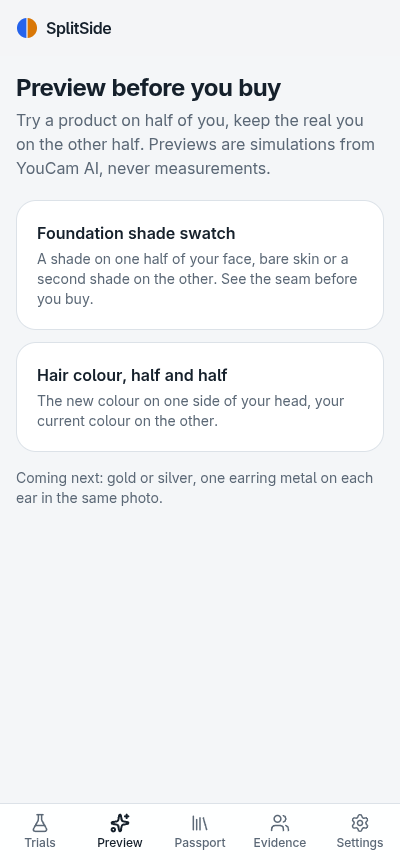
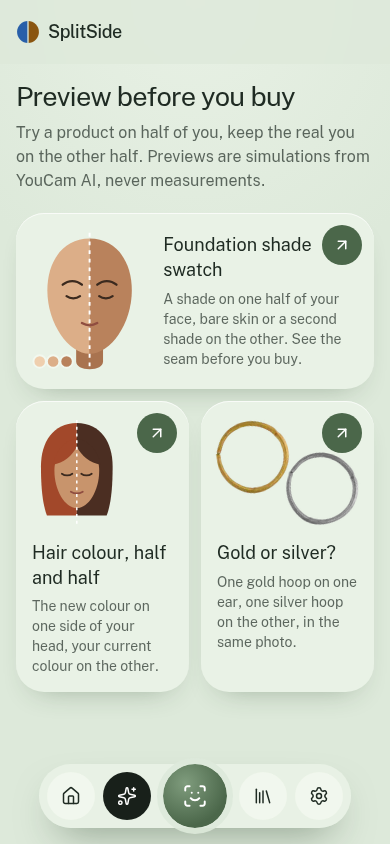
Rewrite README with GIFs and refreshed screenshots, round scanner ticks

diff --git a/components/ScannerFrame.tsx b/components/ScannerFrame.tsx
@@ -18,7 +18,7 @@ export function ScannerFrame({ children, status, live = false }: { children: Rea
           const y = 205 - ry * Math.cos(t);
           const nx = Math.sin(t);
           const ny = -Math.cos(t);
-          return <line key={i} x1={x} y1={y} x2={x - nx * 7} y2={y - ny * 7} stroke="var(--color-forest)" strokeOpacity={live ? 0.8 : 0.45} strokeWidth="1.4" />;
+          return <line key={i} x1={x.toFixed(2)} y1={y.toFixed(2)} x2={(x - nx * 7).toFixed(2)} y2={(y - ny * 7).toFixed(2)} stroke="var(--color-forest)" strokeOpacity={live ? 0.8 : 0.45} strokeWidth="1.4" />;
         })}
       </svg>
       <div className="absolute inset-[14px] overflow-hidden rounded-[999px] bg-forest/80">{children}</div>

diff --git a/README.md b/README.md
@@ -1,159 +1,235 @@
-# SplitSide: your face is the control group
+<div align="center">
+
+# SplitSide
+
+### Your face is the control group.
 
 **Measure what works. Preview before you buy. Always half-and-half, always honest.**
 
-SplitSide is an at-home **split-face skincare trial** app. You put a new product on one cheek only, and the other cheek stays untouched as the control. **YouCam AI Skin Analysis** then measures both halves in the same photo. Light, sleep, stress, weather and hormones hit both sides equally, so they cancel out. What's left is the product's real effect.
+An at-home split-face skincare trial app, built on the YouCam API.
+Skin AI track, [YouCam API Skin AI & eCommerce VTO Hackathon](https://youcam-api-skin-ai-ecommerce.devpost.com/).
 
-Built for the **YouCam API Skin AI & eCommerce VTO Hackathon** (Perfect Corp, Devpost), Skin AI track.
+![Next.js 16](https://img.shields.io/badge/Next.js-16-1f2b23) ![TypeScript strict](https://img.shields.io/badge/TypeScript-strict-285fa9) ![YouCam APIs: 9](https://img.shields.io/badge/YouCam%20APIs-9-4b674a) ![Tests: 99 passing](https://img.shields.io/badge/tests-99%20passing-356a33) ![Installable PWA](https://img.shields.io/badge/PWA-installable-4b674a) ![License: MIT](https://img.shields.io/badge/license-MIT-66766a)
 
-| Landing | Your trials | Trial dashboard | Irritation stop | Preview mode |
-|---|---|---|---|---|
-| ![Landing](docs/screenshots/landing.png) | ![Trials](docs/screenshots/trials.png) | ![Dashboard](docs/screenshots/dashboard.png) | ![Stop verdict](docs/screenshots/stop-verdict.png) | ![Preview](docs/screenshots/preview.png) |
+<img src="docs/gifs/landing.gif" alt="Scrolling the SplitSide landing page: a face in the scanner oval gets its mesh drawn, then splits into a blue treated half and an amber control half" width="280" />
 
-Demo video: _link added at submission_
+**Demo video:** _link added at submission_ · **Live app:** _link added after deploy_
 
-## Why it exists
+</div>
 
-People buy skincare without knowing whether it works. Before-and-after selfies can't tell them, because a bad night or a cloudy window changes a skin score more than most products do. Dermatology solved this long ago with the split-face trial, where one side of the face is the control. SplitSide brings that method to shoppers. It answers "is this product working on my skin?" with **Working / No real difference / Stop**, before the store's return window closes.
+---
 
-## What it does
+## The problem
 
-- **Guided capture.** Front camera with live MediaPipe face landmarks. Checks for centring, head pose, size and eyes/mouth, plus a ghost outline of your first scan. Auto-captures after 0.6 s of passing every check.
-- **Light Balance Gate.** Compares the median brightness of the two cheek areas before anything is uploaded, and blocks side light, darkness, glare and blur.
-- **Randomised side.** A cryptographic coin flip decides which cheek gets the product, so you can't pick your "better" side.
-- **Split engine.** Fits the facial midline and builds two mirror-image cheek areas of equal size, with a buffer band down the middle. It then measures how much of each area every YouCam concern mask covers.
-- **Statistics, not vibes.** Three baseline scans give your personal noise range (SDC). The difference-in-differences of the log treated/control ratio produces the verdict, with confidence, early stopping and a 7-day extension if the return window allows.
-- **Irritation sentinel.** Redness or breakouts rising on the treated side only, or reported burning or stinging, mean an immediate STOP with safety advice. The threshold is lower for Fitzpatrick IV–VI with harsh actives.
-- **Trial assistant.** An LLM agent with tools over your trial numbers. It explains the verdict, drafts the return request and suggests a gentler next trial. It never sees photos and never invents numbers. A deterministic manager runs the trial even without the LLM.
-- **Claim Check.** YouCam AI Skin Simulation shows what the box's promise would look like on your own baseline photo, beside the measured result. It is clearly labelled as a simulation.
-- **Preview mode ("split everything").** Before you buy, the product goes on half of you and the real you stays on the other half, in one photo, always labelled *Preview: simulated*:
-  - **Half-face foundation swatch.** YouCam makeup try-on renders one or two shades. A seam score (CIEDE2000 between your bare cheeks and the same cheeks with the shade) says "Blends well", "Slightly light" or "Too dark", so you buy one shade instead of two. The shortlist comes from your skin tone measured by YouCam skin tone analysis.
-  - **Half-head hair colour.** A new colour on one side of your head, your current colour on the other, with three suggestions that explain why they suit your undertone.
-  - **Gold or silver?** One gold hoop on one ear and one silver hoop on the other, in the same photo, with an undertone hint. The hoop photos are a CC0 museum object (The Met); the silver one is the same hoop recoloured so only the metal differs.
-- **SplitHair (beta).** An anti-frizz product on one side of the parting. Each check-in rates frizz per side with YouCam hair frizziness detection (front + that side's view), and an ordinal difference-in-differences counts only full-level changes that repeat. Confidence stays low by design.
-- **Measured skin type.** YouCam's Fitzpatrick analyser reads your phototype from one photo. Darker phototypes get an earlier irritation alert with strong actives, because they are more prone to dark marks after irritation.
-- **Makeup wear test.** Foundation on one half for a week, measuring breakouts, redness and oiliness against the bare half. It answers "does this foundation break me out?" with the same engine.
-- **Share card and story reel.** A PNG result card and a 7-second reel (day 0 → last day → verdict) built from your real photos. Eyes are always pixelated, and YouCam background blur hides your room on a copy of the photo.
-- **Head-to-head mode.** Budget dupe on one cheek, premium original on the other.
-- **Skin Passport.** Ingredient patterns across your trials, such as "fragrance appeared in 2 of your irritating products", plus a pre-purchase ingredient check.
-- **Evidence board.** Pooled anonymous verdicts per product, split by skin type. It currently shows example data, clearly labelled.
-- **Demo mode.** Four seeded trials (Working, Stop, Head-to-head no difference, early Stop), all badged **Demo data**. You can explore every screen without a camera.
-- **Private by design.** Photos, masks and results live in IndexedDB on the phone. Delete everything takes one tap.
+People buy skincare without knowing whether it works. Before-and-after selfies can't tell them: a bad night or a cloudy window changes a skin score more than most products do.
 
-## YouCam APIs used, and why
+Dermatology solved this long ago with the **split-face trial**, where one side of the face is the control. SplitSide brings that method home:
 
-| API | Endpoint | Why |
+1. A coin flip picks a cheek. The product goes there only.
+2. Every couple of days, one guided selfie. **YouCam AI Skin Analysis** measures both halves of that same photo.
+3. Light, sleep, stress and weather hit both sides equally, so they cancel out. What's left is the product.
+
+The answer is **Working, No real difference, or Stop**, delivered before the store's return window closes.
+
+## See it
+
+| Onboarding | A trial, start to verdict | Irritation stop |
 |---|---|---|
-| File upload | `POST /s2s/v2.0/file` + presigned `PUT` | Registers the selfie and uploads the bytes server-side, so the key never reaches the browser |
-| **AI Skin Analysis (HD)** | `POST /s2s/v2.0/task/skin-analysis`, `GET …/{task_id}` | 8 HD concerns (`hd_redness, hd_acne, hd_oiliness, hd_age_spot, hd_texture, hd_pore, hd_radiance, hd_moisture`) with `enable_mask_overlay: false`, so there is **one mask per concern**. The masks are the measuring instrument: SplitSide splits them at the midline instead of only reading whole-face scores. `raw_score` is stored for comparisons |
-| **AI Skin Simulation** | `POST /s2s/v2.0/task/skin-simulation`, `GET …/{task_id}` | **Claim Check**: renders the brand's claimed improvement on your baseline photo ("What the brand promises", always labelled *Simulation*) next to what your scans actually measured. Never feeds the verdict |
-| **Makeup VTO** | `POST /s2s/v2.0/task/makeup-vto` (foundation) | Half-face shade swatch. Composited at the facial midline with your bare half or a second shade; seam score computed client-side |
-| **Hair Color VTO** | `POST /s2s/v2.0/task/hair-color` | Half-head hair colour preview |
-| **Skin Tone Analysis** | `POST /s2s/v2.0/task/skin-tone-analysis` | Measured skin colour, undertone and hair colour, which drive the shade and hair shortlists |
-| **Fitzpatrick Skin Type** | `POST /s2s/v2.0/task/fitzpatrick-scale-analyzer` | Phototype I–VI from a photo, which tunes the irritation-sentinel threshold |
-| **Earrings VTO** | `POST /s2s/v2.0/task/2d-vto/earring` | Gold vs silver, one metal per ear |
-| **Hair Frizziness Detection** | `POST /s2s/v2.0/task/hair-frizziness-detection` | SplitHair: frizz level per side (beta) |
-| **Photo Background Blur** | `POST /s2s/v2.0/task/bg-blur` | Share card and reel, on a copy only |
-| Credits | `GET /s2s/v1.0/client/credit` | Units panel in Settings |
+| ![Welcome flow with intro slides, name and theme choice](docs/gifs/onboarding.gif) | ![Home, dashboard and verdict for a demo trial](docs/gifs/trial.gif) | ![A stop verdict with safety advice](docs/gifs/stop.gif) |
 
-Every API above has a real recorded response in [`tests/fixtures/youcam/`](tests/fixtures/youcam), validated by tests. A real HD response and its masks are recorded in [`tests/fixtures/youcam/cheeks-hd`](tests/fixtures/youcam/cheeks-hd), and the parser and mask decoder are tested against them. One finding: HD masks are **display overlays, not plain alpha maps**. Undetected pixels are a grey `#3D3D3D` dimming layer, and detections are coloured with alpha on a per-concern scale. The decoder handles this (see [`lib/split/burden.ts`](lib/split/burden.ts) and [`docs/05-youcam-api-reference.md`](docs/05-youcam-api-reference.md)).
+| Money saved | Light and dark themes |
+|---|---|
+| ![Skin Passport with the money-saved tracker](docs/gifs/passport.gif) | ![Switching between light and dark themes](docs/gifs/theme.gif) |
 
-Deliberately **not** used on analysis photos: lighting, colour correction, enhancement, face reshape or any beauty filter. Those would fake the measurement.
+All recordings use the app's clearly labelled demo data. No real faces.
+
+| Home | Scanner | Verdict | Preview | Assistant | Dark |
+|---|---|---|---|---|---|
+| ![Home](docs/screenshots/home.png) | ![Scanner](docs/screenshots/scanner.png) | ![Verdict](docs/screenshots/verdict.png) | ![Preview](docs/screenshots/preview.png) | ![Assistant](docs/screenshots/assistant.png) | ![Dark](docs/screenshots/home-dark.png) |
+
+**Try it without a camera:** open the app and tap *Explore a demo trial*.
+
+## Features
+
+### Measure: real trials on your face
+
+- **Guided scanner.** Live MediaPipe face landmarks check centring, head pose, distance, and eyes and mouth, against a ghost outline of your first scan. Auto-captures after 0.6 s of passing every check.
+- **Light Balance Gate.** Compares median brightness of the two cheeks before upload and blocks side light, darkness, glare and blur.
+- **Voice guidance.** Optional spoken prompts during capture, for accessibility.
+- **Split engine.** Fits the facial midline and builds two mirror-image cheek areas of equal size, with a buffer band for product spreading. Then measures how much of each area every YouCam concern mask covers.
+- **Statistics, not vibes.** Three baseline scans give your personal noise range. A difference-in-differences verdict adds confidence, early stopping, and a 7-day extension if the return window allows.
+- **Irritation sentinel.** Redness or breakouts rising on the treated side only, or reported burning or stinging, trigger an immediate Stop with safety advice. The threshold is lower for Fitzpatrick IV–VI with strong actives.
+- **Measured skin type.** YouCam reads your Fitzpatrick type from a photo. You can always change it.
+- **Head-to-head.** Budget dupe on one cheek, premium original on the other.
+- **Makeup wear test.** "Does this foundation break me out?" Seven days on one half, against the bare half.
+- **SplitHair (beta).** An anti-frizz product on one side of your parting, rated per side. Confidence stays low by design: frizz has only 4 levels.
+- **Context that cancels out.** Log sleep, stress and your cycle, and optionally pull humidity and air quality. A chart shows these moving your whole-face score while the treated-vs-control line ignores them.
+
+### Preview: before you buy
+
+Half simulated product, half the real you, in one photo. Always labelled *Preview: simulated*, never counted as a measurement.
+
+- **Foundation shade swatch.** Your skin tone, measured by YouCam, shortlists 3 of 24 generic shades. Then see one shade next to bare skin, or two side by side. A seam score (CIEDE2000) says "Blends well", "Slightly light" or "Too dark", so you buy one shade instead of two.
+- **Half-head hair colour.** A new colour on one side of your head, with suggestions that explain why they suit your undertone.
+- **Gold or silver?** One metal on each ear in the same photo.
+- **Claim Check.** The box's promise simulated on your own baseline photo, next to what your scans measured.
+
+### Decide: what to do next
+
+- **Keep or return.** A return countdown, and a ready-to-send return request with your trial evidence.
+- **Money saved.** Refunds plus the premium products you didn't need, using the prices you typed.
+- **Skin Passport.** Ingredient patterns across your trials, and a pre-purchase check on any ingredient list.
+- **Trial assistant.** An LLM agent with tools over your numbers. It explains the verdict, drafts messages, and replies in your language. It never sees photos and can't invent or override a measurement.
+- **Barcode fill.** Scan a product to fill in its name and ingredients.
+- **Dermatologist report.** A one-page printable summary of the trial.
+- **Calendar export.** Every scan day, as one calendar file.
+- **Privacy-safe sharing.** A result card and a 7-second reel from real photos, with eyes always pixelated and your room blurred on a copy.
+- **Evidence board.** How pooled anonymous results would look per product and skin type. It shows example data, clearly labelled, today.
+
+### Feel: a finished product
+
+- Sage design system with **light and dark themes**, applied before first paint so there's no flash
+- **GSAP motion**: a scrubbed scroll story on the landing page, verdict reveals, coin flip, page entrances. All of it respects reduced-motion settings, and it stays off the live scanner so face tracking keeps its frame budget
+- **Installable PWA** with an offline shell
+- **No accounts.** Everything lives on your phone. That's deliberate: nothing to sign in to, no profile to hand over
+
+## APIs and integrations
+
+### YouCam (9 APIs)
+
+Every API has a real recorded response in [`tests/fixtures/youcam/`](tests/fixtures/youcam), checked by tests. The one exception is frizz, where only an error response is recorded so far (see [Known limits](#known-limits)).
+
+| API | Endpoint (`/s2s/v2.0/task/…`) | Why SplitSide uses it |
+|---|---|---|
+| **AI Skin Analysis (HD)** | `skin-analysis` | The measuring instrument. One mask per concern, split at the midline, rather than only reading whole-face scores |
+| **AI Skin Simulation** | `skin-simulation` | Claim Check |
+| **Makeup VTO** | `makeup-vto` | Half-face foundation swatch |
+| **Hair Color VTO** | `hair-color` | Half-head colour preview |
+| **Earrings VTO** | `2d-vto/earring` | Gold on one ear, silver on the other |
+| **Skin Tone Analysis** | `skin-tone-analysis` | Shade and hair-colour shortlists, undertone |
+| **Fitzpatrick Skin Type** | `fitzpatrick-scale-analyzer` | Tunes the irritation threshold |
+| **Hair Frizziness Detection** | `hair-frizziness-detection` | SplitHair (beta) |
+| **Photo Background Blur** | `bg-blur` | Share card, on a copy only |
+
+The file upload (`POST /s2s/v2.0/file` plus presigned PUT) and credit endpoints support all of these.
+
+**Deliberately not used on analysis photos:** lighting, colour correction, enhancement, face reshape or any beauty filter. Those would fake the measurement. Aging simulation and face swap are excluded too.
+
+A finding worth sharing: **HD masks are display overlays, not plain alpha maps.** Undetected pixels are a grey `#3D3D3D` dimming layer, and detections are coloured with alpha on a per-concern scale. See [`lib/split/burden.ts`](lib/split/burden.ts) and [`docs/05-youcam-api-reference.md`](docs/05-youcam-api-reference.md).
+
+### Third-party
+
+| Service | Used for | Key needed |
+|---|---|---|
+| [Groq](https://groq.com) | Trial assistant (OpenAI-compatible tool calling) | Yes, optional: without it, answers come from the deterministic engine |
+| [Open Beauty Facts](https://world.openbeautyfacts.org) | Barcode to product name and ingredients | No |
+| [Open-Meteo](https://open-meteo.com) | Humidity, UV and air quality per scan, opt-in, location rounded to about 10 km | No |
+| [MediaPipe](https://ai.google.dev/edge/mediapipe) | Face landmarks in the browser, self-hosted | No |
 
 ## Architecture
 
 ```mermaid
 flowchart LR
-  subgraph Phone["Phone (PWA)"]
-    CAM[Camera + MediaPipe landmarks] --> GATE[Pose gate + Light Balance Gate]
-    GATE --> JPG[HD frame ≥1080 px]
-    MASKS[Concern masks] --> SPLIT[Split engine: midline, mirror ROIs, burdens]
-    SPLIT --> STATS[Verdict engine: baseline, DiD, sentinel]
+  subgraph Phone["Phone (PWA): photos and results stay here"]
+    CAM[Camera + MediaPipe] --> GATE[Pose gate + Light Balance Gate]
+    GATE --> JPG[Un-enhanced HD frame]
+    MASKS[Concern masks] --> SPLIT[Split engine]
+    SPLIT --> STATS[Verdict engine + sentinel]
     STATS --> IDB[(IndexedDB)]
-    STATS --> UI[Dashboard, verdict, passport]
+    STATS --> UI[Screens]
     STATS --> SUM[Derived numbers only]
+    PREV[Preview photo] --> COMP[Midline composite + seam score]
   end
-  subgraph Server["Next.js route handlers"]
-    SCAN["/api/scan"] 
-    POLL["/api/scan/:taskId"]
+  subgraph Server["Next.js route handlers: hold the keys, store nothing"]
+    SCAN["/api/scan"]
+    TASK["/api/preview, /api/profile, /api/earrings, /api/hair"]
     AGENT["/api/agent"]
+    PROD["/api/product"]
   end
   JPG --> SCAN --> YC[(YouCam API)]
-  POLL --> YC
-  YC --> POLL --> MASKS
-  SUM --> AGENT --> LLM[(Groq LLM, tool calls)]
-```
-
-| Layer | Choice |
-|---|---|
-| App | Next.js 16 (App Router), TypeScript strict, Tailwind CSS v4, installable PWA |
-| Face landmarks | `@mediapipe/tasks-vision` Face Landmarker, model and WASM self-hosted in `public/mediapipe` |
-| Storage | IndexedDB via `idb`, on device only |
-| Validation | Zod on every external payload (YouCam responses, agent requests) |
-| Charts | Recharts |
-| Assistant | Groq OpenAI-compatible chat completions with tool calling (`openai/gpt-oss-120b`), plain `fetch` |
-| Tests | Vitest: 90 tests over pure modules and recorded fixtures |
-
-```
-app/                 screens + route handlers (api/scan, api/scan/[taskId], api/credits, api/agent)
-components/          SplitFace, SplitPhoto, charts, CheckIn, AppShell…
-lib/split/           midline fit, face-frame ROIs, mask decoding and burden
-lib/capture/         pose gate, Light Balance Gate, MediaPipe wrapper, frame capture, YouCam polling
-lib/stats/           asymmetry, baseline/SDC, verdict, sentinel, natural asymmetry
-lib/trial/           planning, explanations, deterministic orchestrator
-lib/agent/           system prompt, tools, tool loop, safety guard, drafts
-lib/youcam/          client, schemas, parser, errors, concern sets
-tests/               unit tests + fixtures/youcam (real recorded response)
-docs/                product spec, algorithms, API reference, plan
+  YC --> SCAN --> MASKS
+  PREV --> TASK --> YC
+  TASK --> COMP
+  SUM --> AGENT --> LLM[(Groq)]
+  UI --> PROD --> OBF[(Open Beauty Facts)]
 ```
 
 ### The maths in one paragraph
 
-For each concern, burden = strength-weighted share of a cheek area that the mask covers. The asymmetry index is `A = ln((burden_treated + ε) / (burden_control + ε))`. Three baseline scans give `A0` and `sd` (floored at 0.05), so `SDC = 1.96·√2·sd`. After baseline, `Δ = A − A0`. The verdict is **Working** when the mean of the last two Δ is ≤ −SDC and both are ≤ −0.75·SDC. **Worse** is the mirror case. **No difference** applies at the planned end with |m| < SDC, and **Stop** whenever the sentinel fires. Full details are in [`docs/07-algorithms.md`](docs/07-algorithms.md).
+For each concern, burden is the strength-weighted share of a cheek area that the mask covers. The asymmetry index is `A = ln((burden_treated + ε) / (burden_control + ε))`. Three baseline scans give `A0` and `sd` (floored at 0.05), so the smallest detectable change is `SDC = 1.96·√2·sd`. After baseline, `Δ = A − A0`. **Working** means the mean of the last two Δ is ≤ −SDC with both ≤ −0.75·SDC. **Worse** is the mirror case. **No difference** applies at the planned end with |mean Δ| < SDC. **Stop** applies whenever the sentinel fires. Full details are in [`docs/07-algorithms.md`](docs/07-algorithms.md).
+
+### Project layout
+
+```
+app/                 screens + route handlers
+components/          SplitPreview, ScannerFrame, charts, CheckIn, motion, landing/…
+lib/split/           midline fit, face-frame ROIs, mask decoding and burden
+lib/capture/         pose gate, Light Balance Gate, MediaPipe, voice guidance
+lib/stats/           asymmetry, baseline/SDC, verdict, sentinel
+lib/preview/         CIELAB + CIEDE2000, split composite, seam score, shade and hair shortlists
+lib/trial/           planning, explanations, orchestrator, money saved
+lib/agent/           system prompt, tools, tool loop, safety guard, drafts
+lib/hair/            SplitHair model and ordinal verdict
+lib/integrations/    Open Beauty Facts, Open-Meteo
+lib/youcam/          client, generic task layer, schemas, parser, errors
+tests/               unit tests + recorded fixtures
+docs/                product spec, algorithms, API reference, plan
+```
 
 ## Setup
 
-Requirements: Node 22+, npm.
+Requires Node 22+.
 
 ```bash
 git clone https://github.com/LSUDOKO/SplitProof.git
 cd SplitProof
-npm install
+npm install --legacy-peer-deps
 cp .env.example .env         # then fill in the keys
 npm run dev                  # http://localhost:3000
 ```
 
 | Variable | Required | Purpose |
 |---|---|---|
-| `YOUCAM_API_KEY` | for real scans | YouCam API key (console → API Keys). Server only |
-| `YOUCAM_BASE_URL` | no | Defaults to `https://yce-api-01.makeupar.com` |
-| `GROQ_API_KEY` | no | Trial assistant. Without it, answers fall back to the deterministic engine text |
-| `GROQ_MODEL` | no | Defaults to `openai/gpt-oss-120b` |
+| `YOUCAM_API_KEY` | For real scans and previews | YouCam console → API Keys. Server only |
+| `YOUCAM_BASE_URL` | No | Defaults to `https://yce-api-01.makeupar.com` |
+| `GROQ_API_KEY` | No | Trial assistant; falls back to engine text without it |
+| `GROQ_MODEL` | No | Defaults to `openai/gpt-oss-120b` |
 
-The camera needs HTTPS on phones. Use a Vercel preview, or `npx next dev --experimental-https` on your LAN.
+The demo works with no keys. The camera needs HTTPS on phones: use a Vercel deployment, or `npx next dev --experimental-https` on your LAN.
 
 ```bash
-npm test            # unit tests (no network, no units spent)
+npm test                     # unit tests: no network, no units spent
 npm run lint
 npm run build
-node --env-file=.env scripts/record-fixture.mjs photo.jpg   # record a new YouCam fixture (~16 units)
+node scripts/record-gifs.mjs # re-record README GIFs (needs the dev server on :3100)
 ```
 
-In development, `/dev/youcam` runs one photo through the full pipeline and shows the ROI overlay.
+In development, `/dev/youcam` runs one photo through the full pipeline and shows the measured areas.
 
 ## Privacy and safety
 
-- Photos go to YouCam only for analysis (YouCam deletes results within 24 h). Everything else stays on the device.
+- Photos go to YouCam only for analysis or a preview you asked for. YouCam deletes results within 24 hours. Everything else stays on the device.
 - The assistant receives derived numbers and text, never images.
 - API keys live only in server environment variables (verified absent from the built client bundle).
-- SplitSide is a cosmetic decision tool, not a medical device, and never diagnoses or treats anything. Every STOP includes the advice to stop the product, rinse, use a plain moisturiser, and see a doctor if it is painful, spreading, blistering or not settling. The assistant's replies are post-checked to always include it.
+- Location is opt-in, rounded to about 10 km, and never stored.
+- SplitSide is a cosmetic decision tool, not a medical device. Every Stop includes the advice to stop the product, rinse, use a plain moisturiser, and see a doctor if it is painful, spreading, blistering or not settling. The assistant's replies are checked in code to always include it.
 
-## Limitations and roadmap
+## Known limits
 
-- Thresholds are the documented starting values. They need calibration with more real scans.
-- **SplitHair is beta.** The frizz API returns one level for three views, so SplitHair scores each side with a front view plus that side twice. A successful response hasn't been recorded with real side photos yet, and frizz has only 4 levels.
-- The Evidence board uses seeded example data. Pooling opt-in results needs a server store.
-- Planned: crossover round, blinded A/B kits, brand portal, Hindi UI.
+- **Not yet proven on a real phone.** Camera capture has been exercised on a fake camera feed and one stock portrait, not a real scan session on a phone.
+- **Thresholds** are the documented starting values and need calibration with more real scans.
+- **SplitHair is beta.** The frizz API returns one level for three views, so SplitHair scores each side from a front view plus that side twice. A successful response hasn't been recorded with real side photos yet.
+- **The evidence board** shows example data. Pooling opt-in results needs a server store.
+- **Barcode camera scanning** needs the browser's `BarcodeDetector` (Android Chrome). Typing the number works everywhere, and Open Beauty Facts doesn't know every product.
+- **Earring images** are one museum hoop in two colours, not a retail catalogue.
+
+## Roadmap
+
+Crossover rounds, blinded A/B kits, a brand portal with Split Kits, pooled evidence, skin-tone equity reports, a store plugin, and a Hindi interface.
+
+## Credits
+
+Hoop photo: The Metropolitan Museum of Art, CC0. Product illustrations are original and unbranded. Skin measurements by YouCam AI (Perfect Corp).
 
 ## License
 
